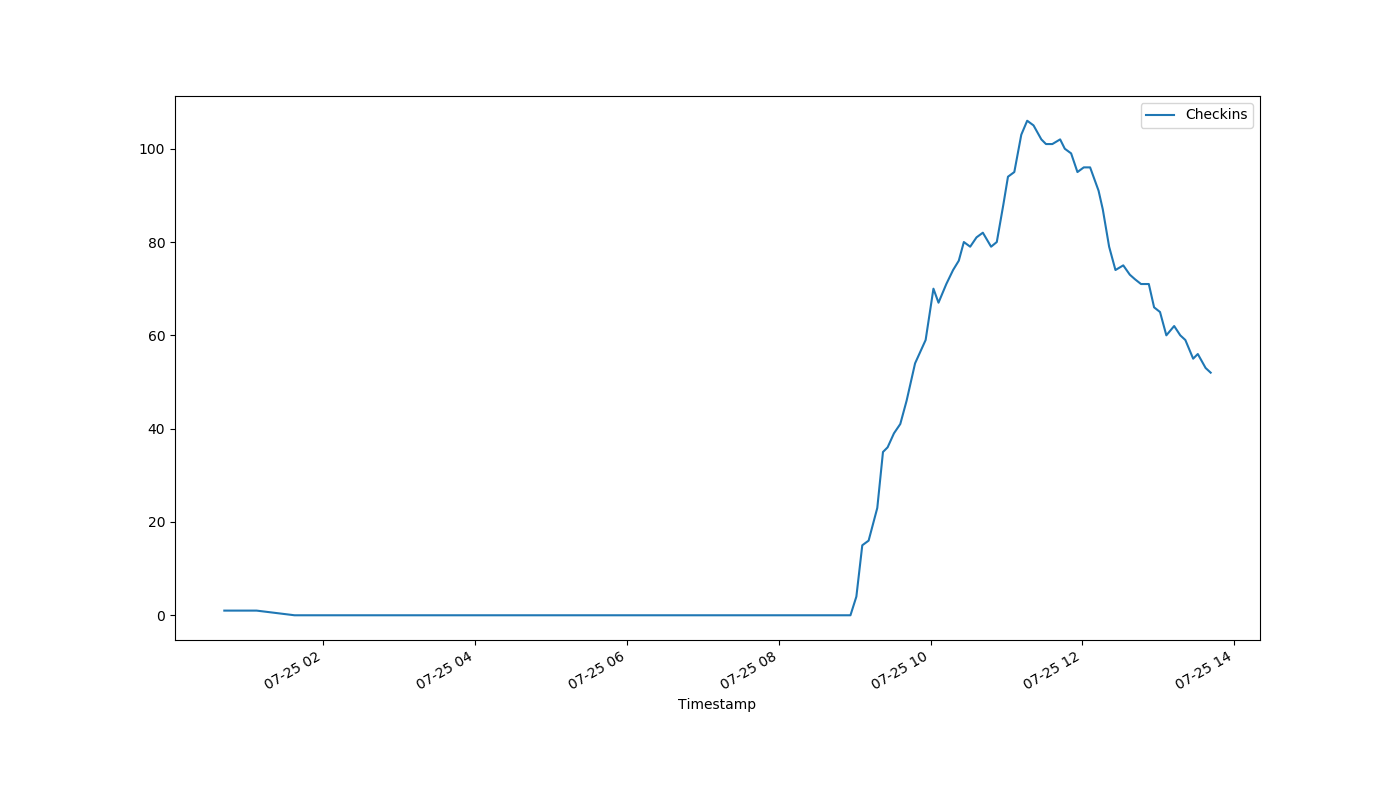
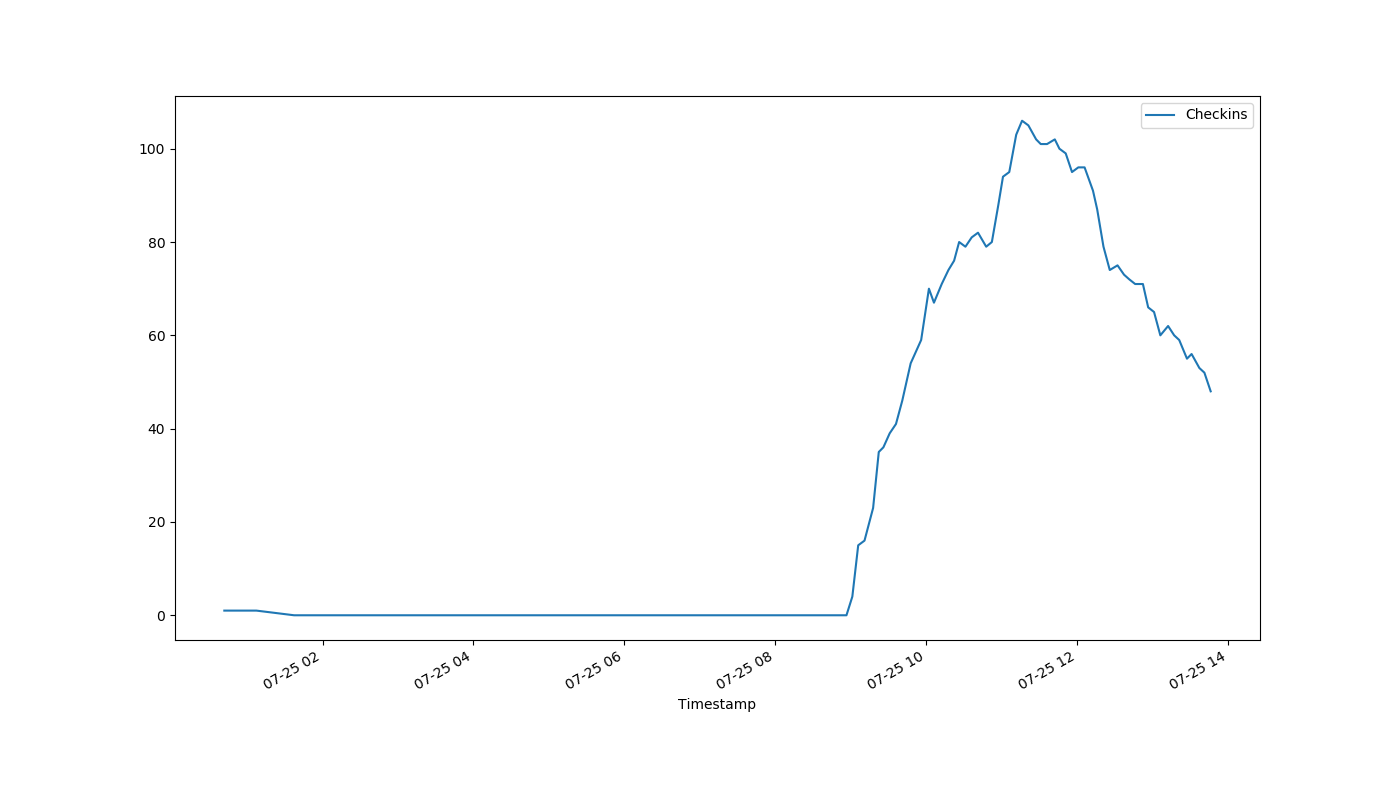
auto-Jul-25-13:48:42

diff --git a/index.html b/index.html
@@ -1,1 +1,1 @@
-<!DOCTYPE html><html><head><meta http-equiv="refresh" content="30"><link rel='stylesheet' href='holmcurrent.css'></head><body><p id='count'>52</p><div id='graph-wrap'><img id='graph' src='holmgraph-Jul-25.png'></div><p id='updated'>Last updated 13:42:03 / 13:41:18</p></body></html>
+<!DOCTYPE html><html><head><meta http-equiv="refresh" content="30"><link rel='stylesheet' href='holmcurrent.css'></head><body><p id='count'>48</p><div id='graph-wrap'><img id='graph' src='holmgraph-Jul-25.png'></div><p id='updated'>Last updated 13:47:03 / 13:46:19</p></body></html>
